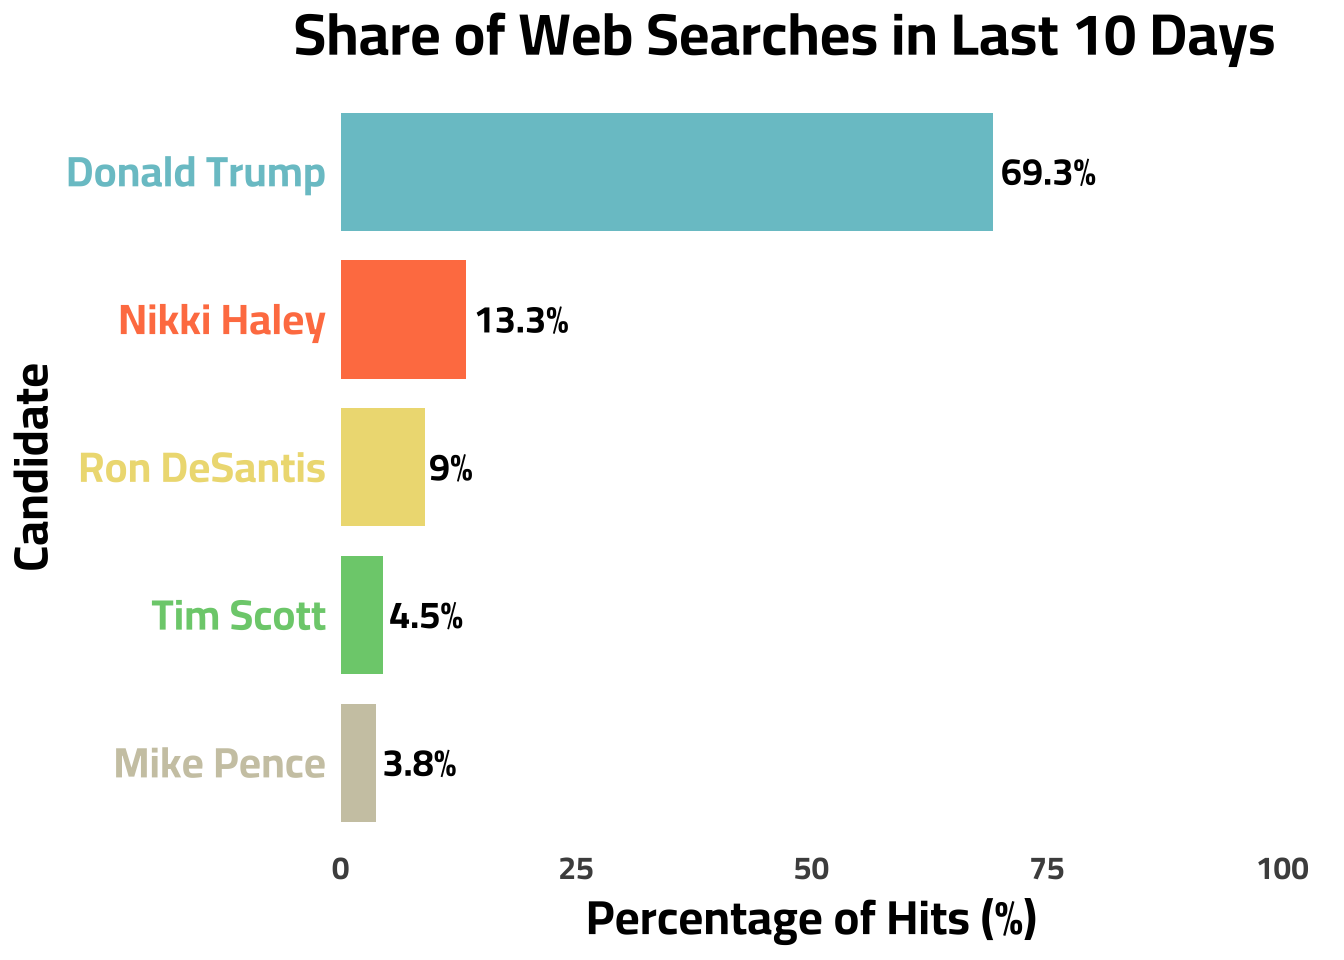
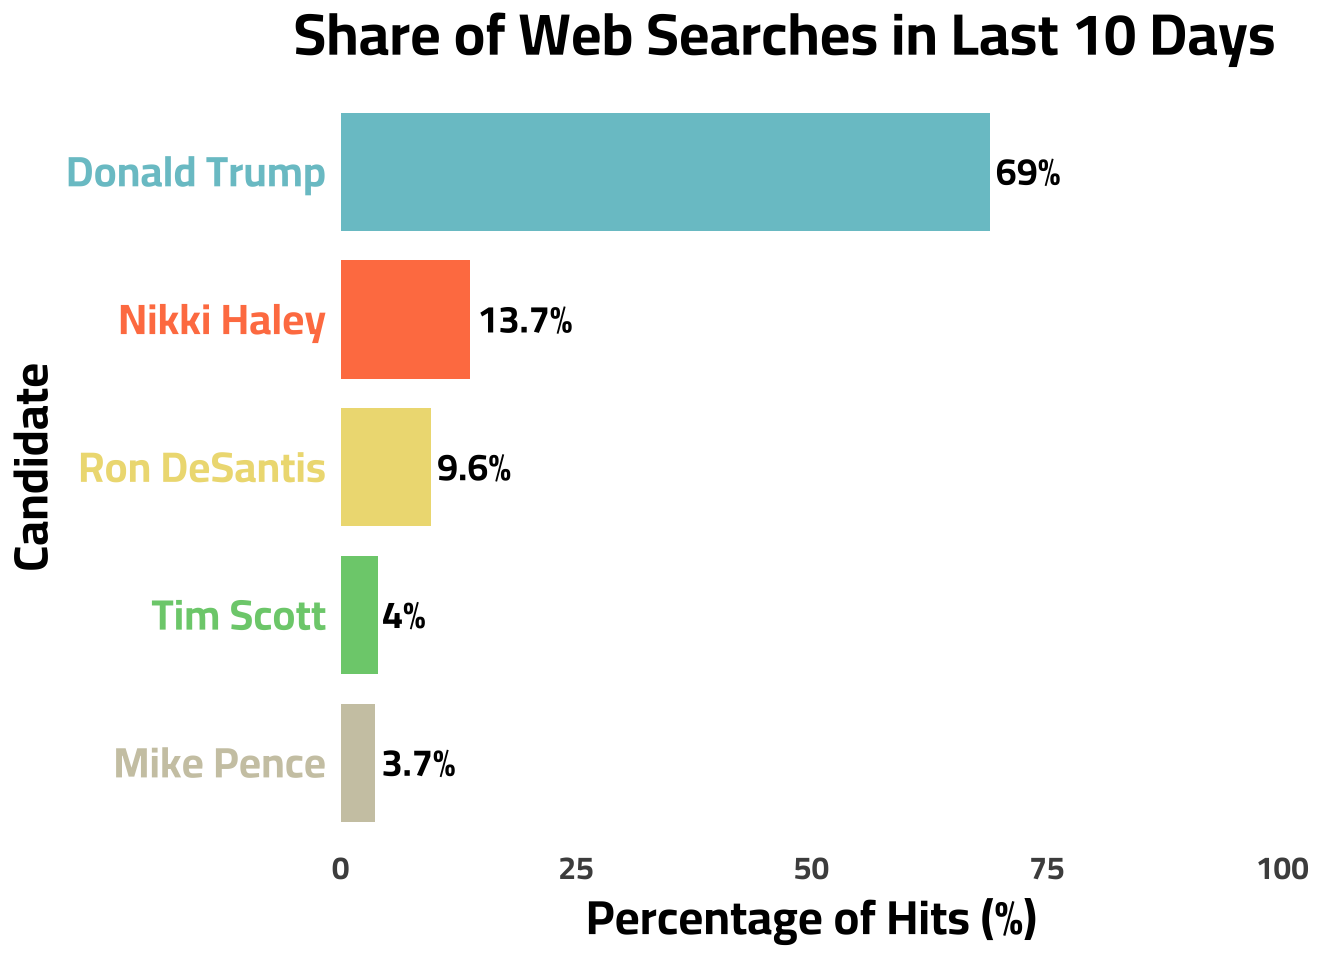
StreamGraph Update

diff --git a/_site/blog.html b/_site/blog.html
@@ -178,7 +178,7 @@ ul.task-list li input[type="checkbox"] {
 
 <div class="quarto-listing quarto-listing-container-default" id="listing-listing">
 <div class="list quarto-listing-default">
-<div class="quarto-post image-right" data-index="0" data-categories="Google Trends,Data Journalism,Politics,CICD" data-listing-date-sort="1689033600000" data-listing-file-modified-sort="1693398232339" data-listing-date-modified-sort="NaN" data-listing-reading-time-sort="7">
+<div class="quarto-post image-right" data-index="0" data-categories="Google Trends,Data Journalism,Politics,CICD" data-listing-date-sort="1689033600000" data-listing-file-modified-sort="1693484606394" data-listing-date-modified-sort="NaN" data-listing-reading-time-sort="7">
 <div class="thumbnail">
 <p><a href="./posts/primary_stream/index.html"> <img src="././about_files/primary_1.png" class="thumbnail-image"> </a></p>
 </div>
@@ -215,7 +215,7 @@ Jul 11, 2023
 </a>
 </div>
 </div>
-<div class="quarto-post image-right" data-index="1" data-categories="Life Hacks,Quarto" data-listing-date-sort="1688601600000" data-listing-file-modified-sort="1693398232340" data-listing-date-modified-sort="NaN" data-listing-reading-time-sort="3">
+<div class="quarto-post image-right" data-index="1" data-categories="Life Hacks,Quarto" data-listing-date-sort="1688601600000" data-listing-file-modified-sort="1693484606395" data-listing-date-modified-sort="NaN" data-listing-reading-time-sort="3">
 <div class="thumbnail">
 <p><a href="./posts/simple_analytics/index.html"> <img src="./about_files/Simple_Analytics.png" class="thumbnail-image"> </a></p>
 </div>
@@ -246,7 +246,7 @@ Jul 6, 2023
 </a>
 </div>
 </div>
-<div class="quarto-post image-right" data-index="2" data-categories="Data Journalism,Google Trends,Politics" data-listing-date-sort="1687824000000" data-listing-file-modified-sort="1693398232338" data-listing-date-modified-sort="NaN" data-listing-reading-time-sort="7">
+<div class="quarto-post image-right" data-index="2" data-categories="Data Journalism,Google Trends,Politics" data-listing-date-sort="1687824000000" data-listing-file-modified-sort="1693484606392" data-listing-date-modified-sort="NaN" data-listing-reading-time-sort="7">
 <div class="thumbnail">
 <p><a href="./posts/google_trends/index.html"> <img src="./about_files/byteman.png" class="thumbnail-image"> </a></p>
 </div>
@@ -280,7 +280,7 @@ Jun 27, 2023
 </a>
 </div>
 </div>
-<div class="quarto-post image-right" data-index="3" data-categories="Data Journalism,LDS,R" data-listing-date-sort="1675728000000" data-listing-file-modified-sort="1693398232338" data-listing-date-modified-sort="NaN" data-listing-reading-time-sort="4">
+<div class="quarto-post image-right" data-index="3" data-categories="Data Journalism,LDS,R" data-listing-date-sort="1675728000000" data-listing-file-modified-sort="1693484606393" data-listing-date-modified-sort="NaN" data-listing-reading-time-sort="4">
 <div class="thumbnail">
 <p><a href="./posts/income_myth/index.html"> <img src="./about_files/LDS_myth_0.png" class="thumbnail-image"> </a></p>
 </div>
@@ -314,7 +314,7 @@ Feb 7, 2023
 </a>
 </div>
 </div>
-<div class="quarto-post image-right" data-index="4" data-categories="Life Hacks,Quarto" data-listing-date-sort="1662076800000" data-listing-file-modified-sort="1693398232340" data-listing-date-modified-sort="NaN" data-listing-reading-time-sort="3">
+<div class="quarto-post image-right" data-index="4" data-categories="Life Hacks,Quarto" data-listing-date-sort="1662076800000" data-listing-file-modified-sort="1693484606394" data-listing-date-modified-sort="NaN" data-listing-reading-time-sort="3">
 <div class="thumbnail">
 <p><a href="./posts/resume/index.html"> <img src="./about_files/resume_2.png" class="thumbnail-image"> </a></p>
 </div>
@@ -345,7 +345,7 @@ Sep 2, 2022
 </a>
 </div>
 </div>
-<div class="quarto-post image-right" data-index="5" data-categories="Survey Research,Data Journalism,LDS" data-listing-date-sort="1646265600000" data-listing-file-modified-sort="1693398232336" data-listing-date-modified-sort="NaN" data-listing-reading-time-sort="7">
+<div class="quarto-post image-right" data-index="5" data-categories="Survey Research,Data Journalism,LDS" data-listing-date-sort="1646265600000" data-listing-file-modified-sort="1693484606391" data-listing-date-modified-sort="NaN" data-listing-reading-time-sort="7">
 <div class="thumbnail">
 <p><a href="./posts/7_facts/index.html"> <img src="https://www.ldstemple.pics/wp-content/uploads/washington-dc-temple-final-sunset-600x600.jpg" class="thumbnail-image"> </a></p>
 </div>
@@ -379,7 +379,7 @@ Mar 3, 2022
 </a>
 </div>
 </div>
-<div class="quarto-post image-right" data-index="6" data-categories="Data Journalism,R" data-listing-date-sort="1618012800000" data-listing-file-modified-sort="1693398232337" data-listing-date-modified-sort="NaN" data-listing-reading-time-sort="4">
+<div class="quarto-post image-right" data-index="6" data-categories="Data Journalism,R" data-listing-date-sort="1618012800000" data-listing-file-modified-sort="1693484606392" data-listing-date-modified-sort="NaN" data-listing-reading-time-sort="4">
 <div class="thumbnail">
 <p><a href="./posts/facebook_data/index.html"> <img src="./about_files/fb_icon" class="thumbnail-image"> </a></p>
 </div>
@@ -410,7 +410,7 @@ Apr 10, 2021
 </a>
 </div>
 </div>
-<div class="quarto-post image-right" data-index="7" data-categories="Data Journalism,R,Survey Research,LDS,Politics" data-listing-date-sort="1607472000000" data-listing-file-modified-sort="1693398232339" data-listing-date-modified-sort="NaN" data-listing-reading-time-sort="8">
+<div class="quarto-post image-right" data-index="7" data-categories="Data Journalism,R,Survey Research,LDS,Politics" data-listing-date-sort="1607472000000" data-listing-file-modified-sort="1693484606393" data-listing-date-modified-sort="NaN" data-listing-reading-time-sort="8">
 <div class="thumbnail">
 <p><a href="./posts/lds_gop/index.html"> <img src="./about_files/iu-3.jpeg" class="thumbnail-image"> </a></p>
 </div>
@@ -450,7 +450,7 @@ Dec 9, 2020
 </a>
 </div>
 </div>
-<div class="quarto-post image-right" data-index="8" data-categories="Data Journalism,R" data-listing-date-sort="1594339200000" data-listing-file-modified-sort="1693398232337" data-listing-date-modified-sort="NaN" data-listing-reading-time-sort="7">
+<div class="quarto-post image-right" data-index="8" data-categories="Data Journalism,R" data-listing-date-sort="1594339200000" data-listing-file-modified-sort="1693484606391" data-listing-date-modified-sort="NaN" data-listing-reading-time-sort="7">
 <div class="thumbnail">
 <p><a href="./posts/cars/index.html"> <img src="https://media.giphy.com/media/rUE9CTmsYMbbOz2MqD/giphy.gif" class="thumbnail-image"> </a></p>
 </div>
@@ -481,7 +481,7 @@ Jul 10, 2020
 </a>
 </div>
 </div>
-<div class="quarto-post image-right" data-index="9" data-categories="Data Journalism,R,Shiny" data-listing-date-sort="1591660800000" data-listing-file-modified-sort="1693398232339" data-listing-date-modified-sort="NaN" data-listing-reading-time-sort="7">
+<div class="quarto-post image-right" data-index="9" data-categories="Data Journalism,R,Shiny" data-listing-date-sort="1591660800000" data-listing-file-modified-sort="1693484606393" data-listing-date-modified-sort="NaN" data-listing-reading-time-sort="7">
 <div class="thumbnail">
 <p><a href="./posts/mobility/index.html"> <img src="./about_files/iu-2.jpeg" class="thumbnail-image"> </a></p>
 </div>

diff --git a/_site/projects.html b/_site/projects.html
@@ -178,7 +178,7 @@ ul.task-list li input[type="checkbox"] {
 
 <div class="quarto-listing quarto-listing-container-grid" id="listing-listing">
 <div class="list grid quarto-listing-cols-3">
-<div class="g-col-1" data-index="0" data-categories="Capstone,Python,Stats" data-listing-date-sort="1682899200000" data-listing-file-modified-sort="1693398232402" data-listing-date-modified-sort="NaN" data-listing-reading-time-sort="4">
+<div class="g-col-1" data-index="0" data-categories="Capstone,Python,Stats" data-listing-date-sort="1682899200000" data-listing-file-modified-sort="1693484606410" data-listing-date-modified-sort="NaN" data-listing-reading-time-sort="4">
 <a href="./projects/internet_archive/index.html" class="quarto-grid-link">
 <div class="quarto-grid-item card h-100 card-left">
 <p class="card-img-top">
@@ -211,7 +211,7 @@ May 1, 2023
 </div>
 </a>
 </div>
-<div class="g-col-1" data-index="1" data-categories="Python,Stats,Dataviz" data-listing-date-sort="1660867200000" data-listing-file-modified-sort="1693398232399" data-listing-date-modified-sort="NaN" data-listing-reading-time-sort="10">
+<div class="g-col-1" data-index="1" data-categories="Python,Stats,Dataviz" data-listing-date-sort="1660867200000" data-listing-file-modified-sort="1693484606406" data-listing-date-modified-sort="NaN" data-listing-reading-time-sort="10">
 <a href="./projects/bayesian_county/index.html" class="quarto-grid-link">
 <div class="quarto-grid-item card h-100 card-left">
 <p class="card-img-top">
@@ -244,7 +244,7 @@ Aug 19, 2022
 </div>
 </a>
 </div>
-<div class="g-col-1" data-index="2" data-categories="CI/CD,R,Dataviz" data-listing-date-sort="1636329600000" data-listing-file-modified-sort="1693398232400" data-listing-date-modified-sort="NaN" data-listing-reading-time-sort="3">
+<div class="g-col-1" data-index="2" data-categories="CI/CD,R,Dataviz" data-listing-date-sort="1636329600000" data-listing-file-modified-sort="1693484606406" data-listing-date-modified-sort="NaN" data-listing-reading-time-sort="3">
 <a href="./projects/covid_update/index.html" class="quarto-grid-link">
 <div class="quarto-grid-item card h-100 card-left">
 <p class="card-img-top">
@@ -277,7 +277,7 @@ Nov 8, 2021
 </div>
 </a>
 </div>
-<div class="g-col-1" data-index="3" data-categories="Dataviz,Stats,R" data-listing-date-sort="1600387200000" data-listing-file-modified-sort="1693398232400" data-listing-date-modified-sort="NaN" data-listing-reading-time-sort="2">
+<div class="g-col-1" data-index="3" data-categories="Dataviz,Stats,R" data-listing-date-sort="1600387200000" data-listing-file-modified-sort="1693484606409" data-listing-date-modified-sort="NaN" data-listing-reading-time-sort="2">
 <a href="./projects/election_model/index.html" class="quarto-grid-link">
 <div class="quarto-grid-item card h-100 card-left">
 <p class="card-img-top">
@@ -310,7 +310,7 @@ Sep 18, 2020
 </div>
 </a>
 </div>
-<div class="g-col-1" data-index="4" data-categories="R,Shiny" data-listing-date-sort="1596153600000" data-listing-file-modified-sort="1693398232402" data-listing-date-modified-sort="NaN" data-listing-reading-time-sort="2">
+<div class="g-col-1" data-index="4" data-categories="R,Shiny" data-listing-date-sort="1596153600000" data-listing-file-modified-sort="1693484606410" data-listing-date-modified-sort="NaN" data-listing-reading-time-sort="2">
 <a href="./projects/peanuts/index.html" class="quarto-grid-link">
 <div class="quarto-grid-item card h-100 card-left">
 <p class="card-img-top">
@@ -340,7 +340,7 @@ Jul 31, 2020
 </div>
 </a>
 </div>
-<div class="g-col-1" data-index="5" data-categories="Capstone,R,Stats" data-listing-date-sort="1587772800000" data-listing-file-modified-sort="1693398232405" data-listing-date-modified-sort="NaN" data-listing-reading-time-sort="6">
+<div class="g-col-1" data-index="5" data-categories="Capstone,R,Stats" data-listing-date-sort="1587772800000" data-listing-file-modified-sort="1693484606413" data-listing-date-modified-sort="NaN" data-listing-reading-time-sort="6">
 <a href="./projects/star_wars_capstone/index.html" class="quarto-grid-link">
 <div class="quarto-grid-item card h-100 card-left">
 <p class="card-img-top">

diff --git a/_site/posts/primary_stream/index.html b/_site/posts/primary_stream/index.html
@@ -181,7 +181,7 @@ Note
 </div>
 </div>
 <div class="callout-body-container callout-body">
-<p>This graph is updated on a daily basis to provide continuous context to the GOP Primary Election. This graph was last updated: 12:24:09 on 30 Aug 2023</p>
+<p>This graph is updated on a daily basis to provide continuous context to the GOP Primary Election. This graph was last updated: 12:23:33 on 31 Aug 2023</p>
 </div>
 </div>
 <div class="cell">
@@ -234,7 +234,7 @@ Note
 </div>
 </div>
 <div class="callout-body-container callout-body">
-<p>This graph is updated on a daily basis to provide continuous context to the GOP Primary Election. This graph was last updated: 12:24:18 on 30 Aug 2023</p>
+<p>This graph is updated on a daily basis to provide continuous context to the GOP Primary Election. This graph was last updated: 12:23:40 on 31 Aug 2023</p>
 </div>
 </div>
 <p>This graph is provided to give a barometer reading of a candidates <em>recent</em> popularity/news coverage.</p>
